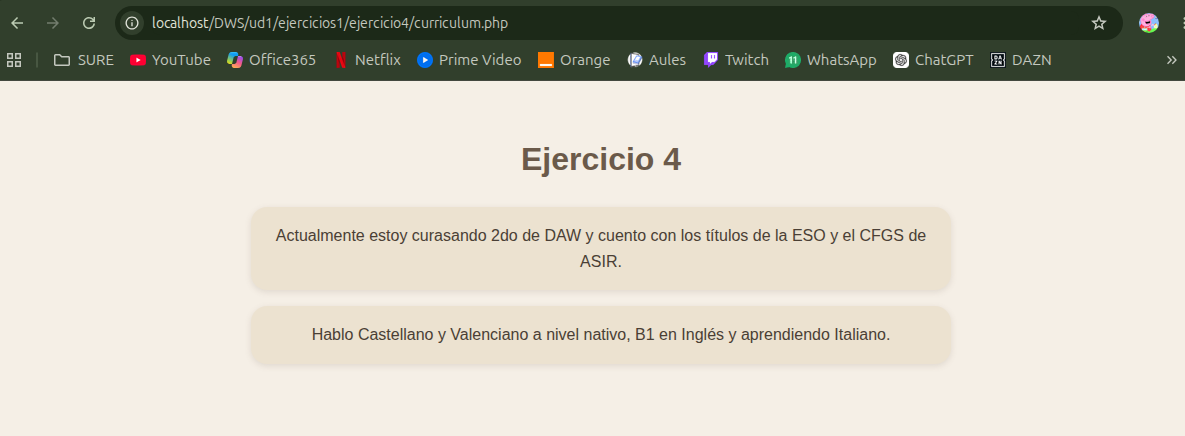
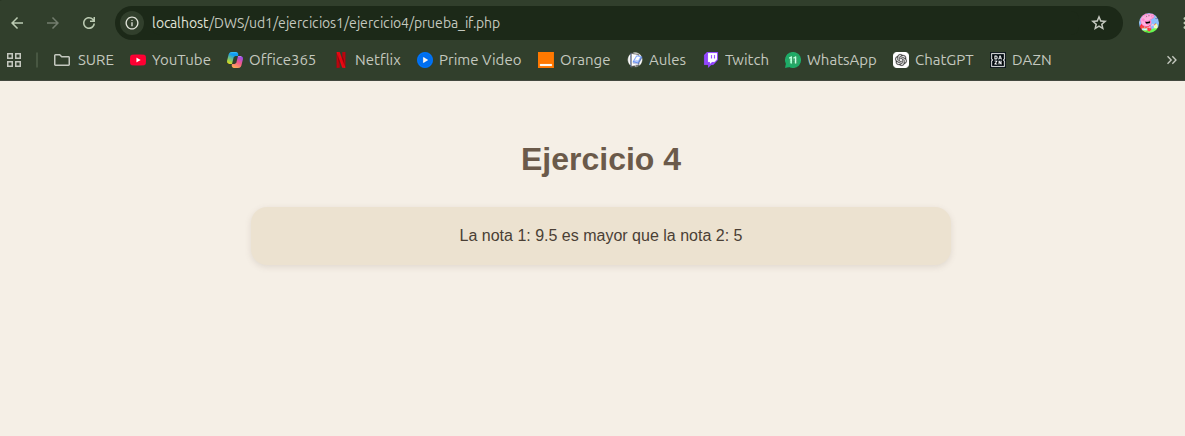
ejercicio 4

Changed region(s): [[0.2186, 0.5069, 0.7806, 0.6261], [0.2498, 0.7454, 0.7494, 0.805], [0.3435, 0.0298, 0.4371, 0.0894]]

diff --git a/ud1/ejercicios1/ejercicio4/prueba_if.php b/ud1/ejercicios1/ejercicio4/prueba_if.php
@@ -1,0 +1,25 @@
+<!DOCTYPE html>
+<html lang="en">
+<head>
+    <meta charset="UTF-8">
+    <meta name="viewport" content="width=device-width, initial-scale=1.0">
+    <link rel="stylesheet" href="../../../estilos.css">
+    <title>Ejercicio 4</title>
+</head>
+<body>
+    <?php
+        $nota1 = 9.5;
+        $nota2 = 5;
+
+        echo "<h1>Ejercicio 4</h1>";
+
+        if($nota1 > $nota2){
+            echo "<p>La nota 1: $nota1 es mayor que la nota 2: $nota2</p>";
+        }elseif ($nota1 < $nota2){
+            echo "<p>La nota 2: $nota2 es mayor que la nota 1: $nota1</p>";
+        }else{
+            echo "<p>Las notas son iguales.</p>";
+        }
+    ?>
+</body>
+</html>

diff --git a/ud1/ejercicios1/ejercicio3/curriculum.php b/ud1/ejercicios1/ejercicio3/curriculum.php
@@ -4,7 +4,7 @@
     <meta charset="UTF-8">
     <meta name="viewport" content="width=device-width, initial-scale=1.0">
     <link rel="stylesheet" href="../../../estilos.css">
-    <title>Ejercicio 4</title>
+    <title>Ejercicio 3</title>
 </head>
 <body>
     <?php
@@ -19,7 +19,7 @@
         $fraseEstudios = "estudios_" . $idioma;
         $fraseIdiomas = "idiomas_" . $idioma;
 
-        echo "<h1>Ejercicio 4</h1>";
+        echo "<h1>Ejercicio 3</h1>";
 
         echo "<p>" . $$fraseEstudios . "</p>";
         echo "<p>" . $$fraseIdiomas . "</p>";

diff --git a/ud1/ejercicios1/ejercicio4/README.md b/ud1/ejercicios1/ejercicio4/README.md
@@ -2,10 +2,9 @@
 
 ## Enunciado
 
-Crea una página en la carpeta de ejercicios llamada curriculum.php donde, utilizando
-variables variables, muestres parte de tu currículum (por ejemplo, un párrafo con tus
-estudios y otro con los idiomas que hablas), tanto en español,valencià como en otro
-idioma que elijas.
+Crea una página llamada prueba_if.php en la carpeta de ejercicios del tema. Crea en
+ella dos variables llamadas $nota1 y $nota2, y dales el valor de dos notas de examen
+cualesquiera (con decimales si quieres). Después, utiliza expresiones if..else para determinar qué nota es la mayor de las dos.
 
 ## Comprobación
 

diff --git a/ud1/ejercicios1/ejercicio3/README.md b/ud1/ejercicios1/ejercicio3/README.md
@@ -1,0 +1,12 @@
+# UNIDAD 1 - EJERCICIO 3
+
+## Enunciado
+
+Crea una página en la carpeta de ejercicios llamada curriculum.php donde, utilizando
+variables variables, muestres parte de tu currículum (por ejemplo, un párrafo con tus
+estudios y otro con los idiomas que hablas), tanto en español,valencià como en otro
+idioma que elijas.
+
+## Comprobación
+
+![Comprobación](foto.png)
